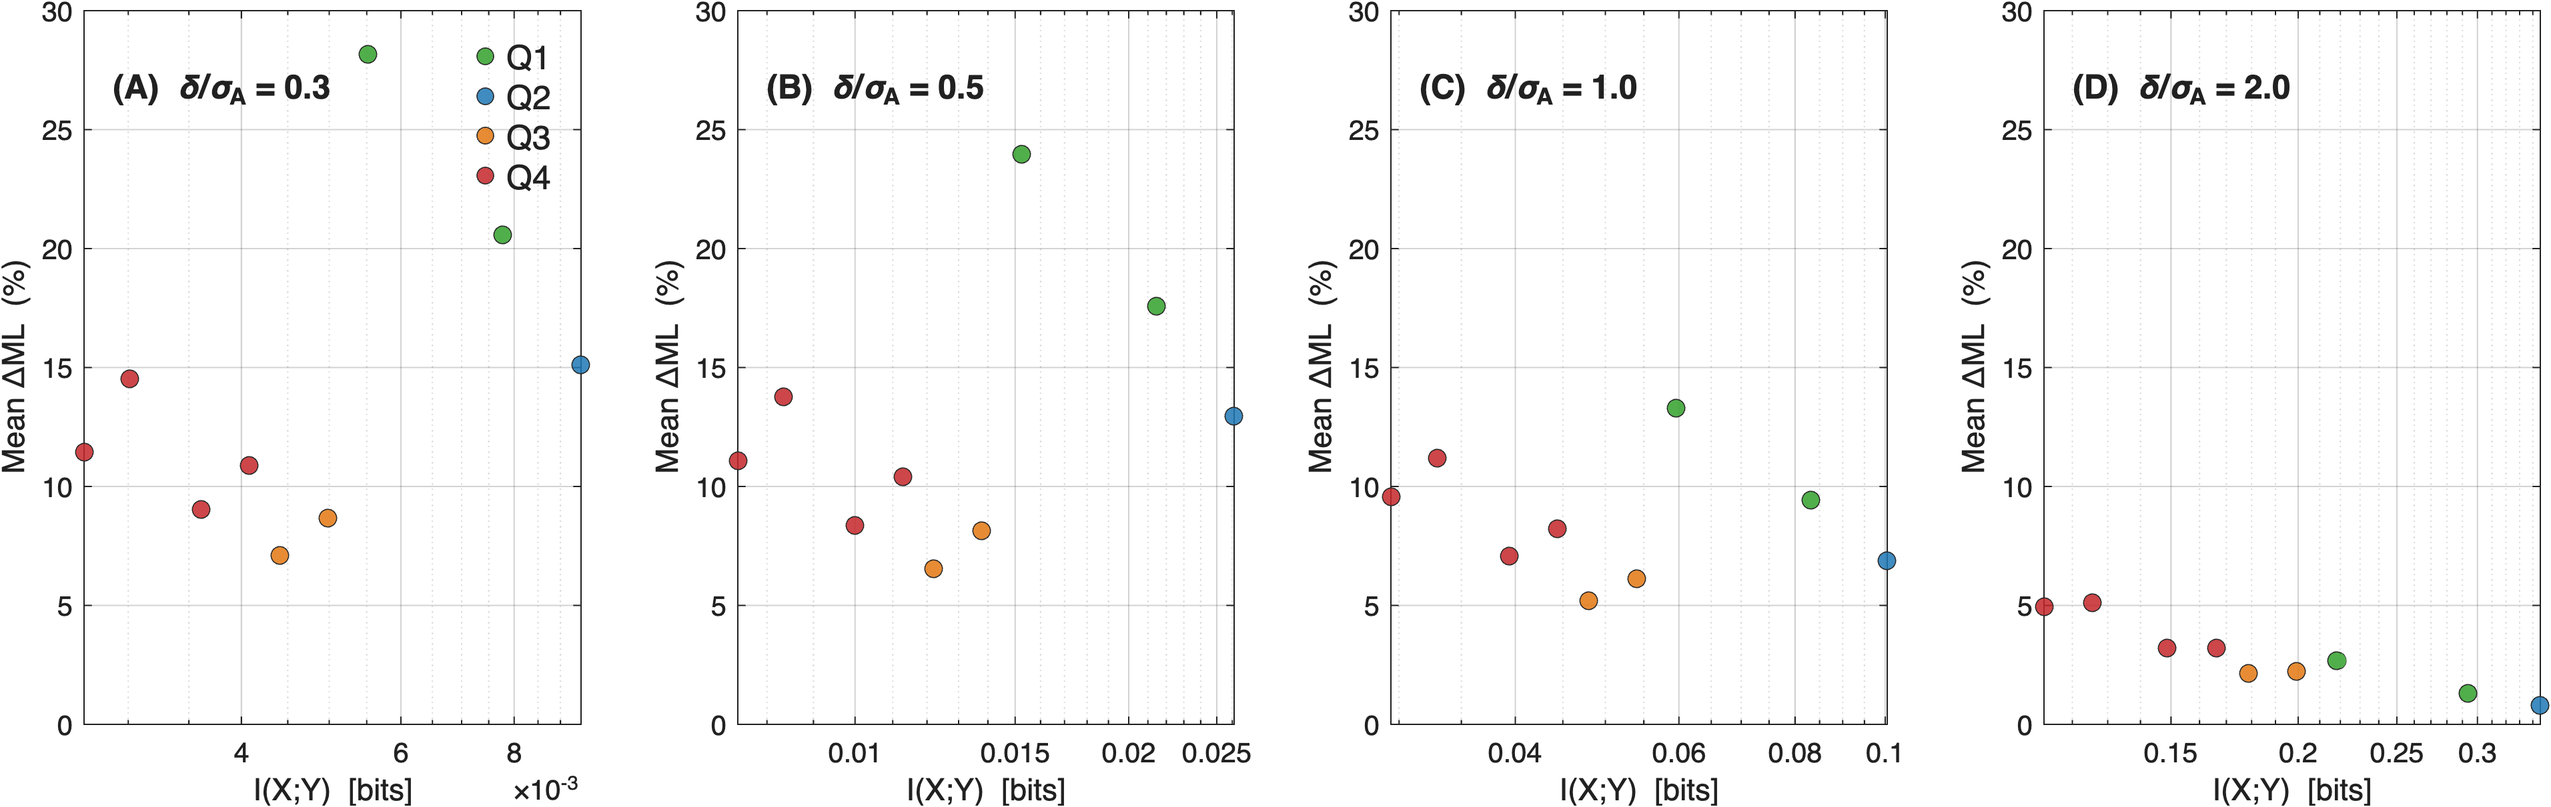
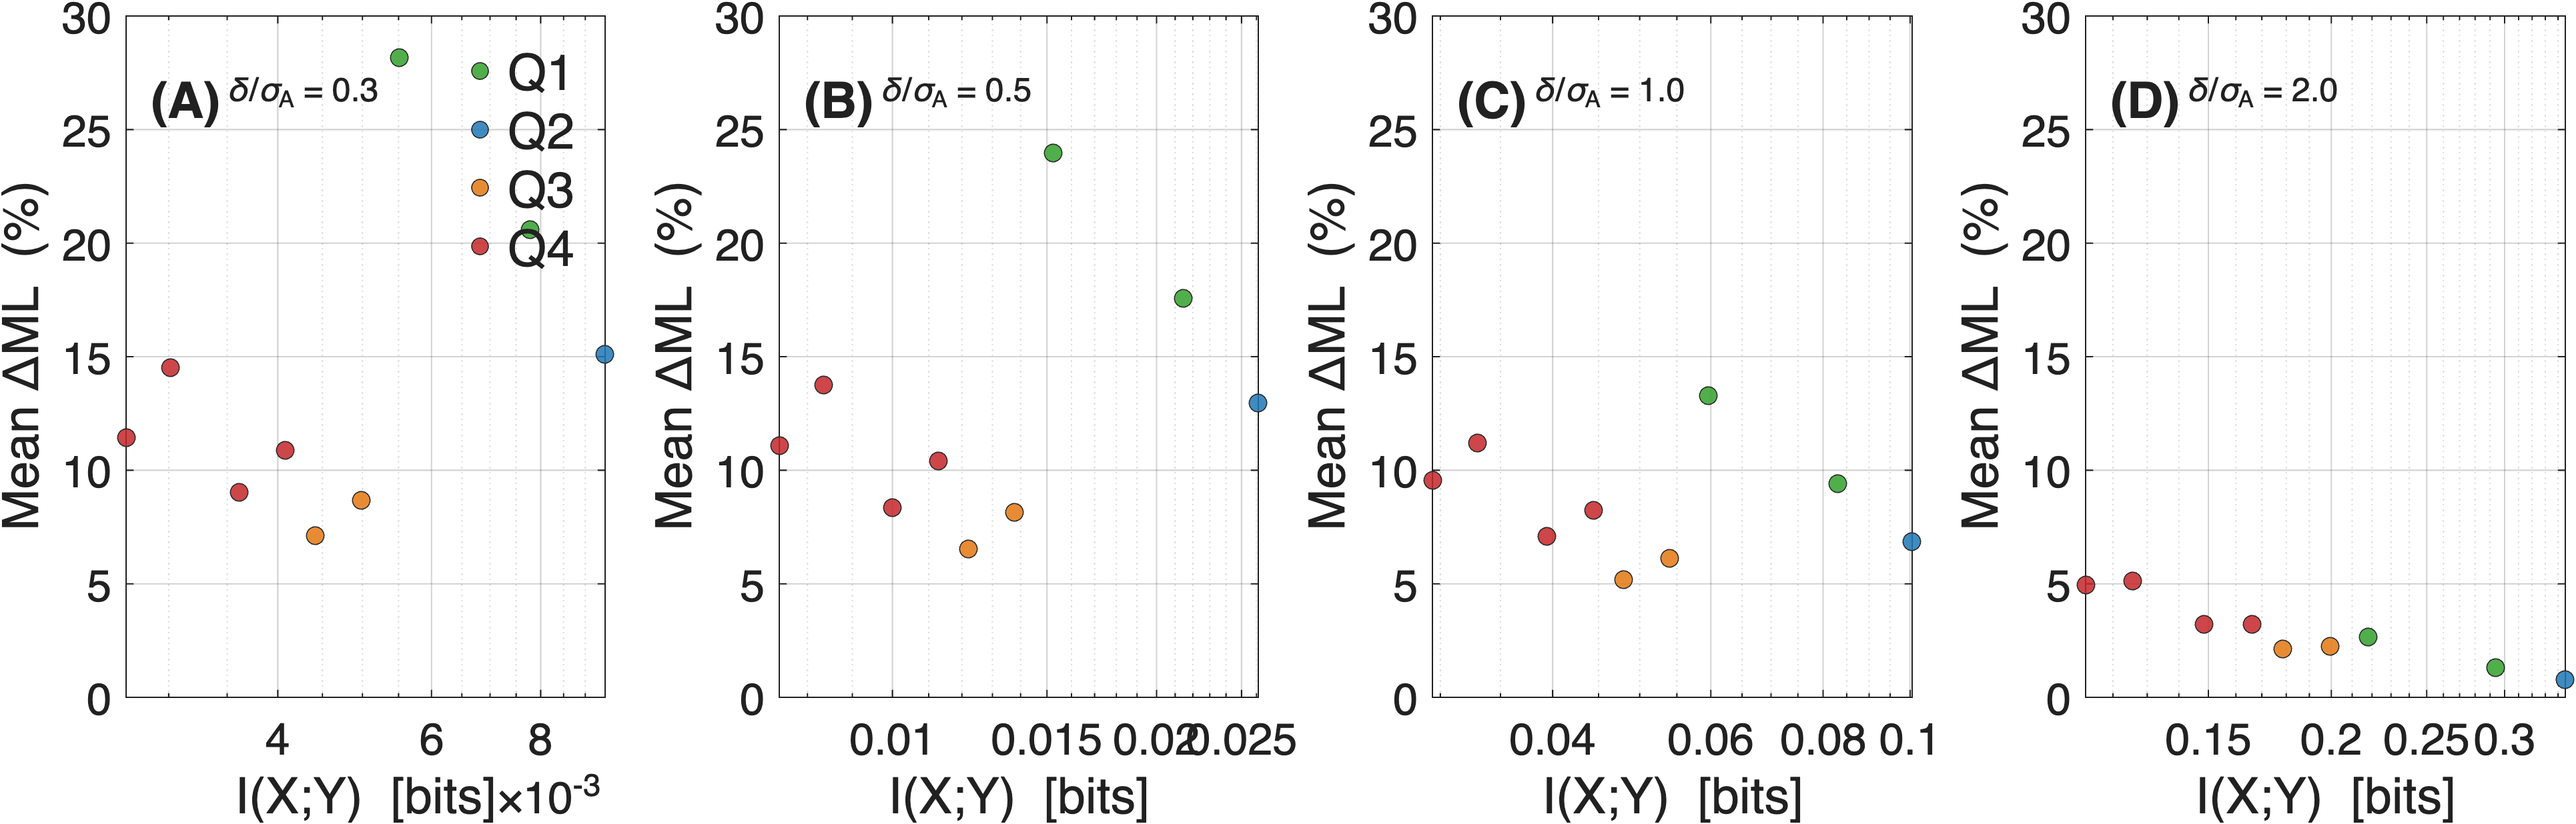
Make SI panel letters match the 18 pt axis labels.
KPI notes stay at 12 pt; regenerate the multi-panel SI figures so Overleaf picks up the larger letters.

diff --git a/scripts/paper_pipeline/lib/pef_figure_style.m b/scripts/paper_pipeline/lib/pef_figure_style.m
@@ -14,8 +14,9 @@ classdef pef_figure_style
 
         function cfg = config()
             % Publication type: no axes titles; captions carry the narrative.
-            % Axis / colourbar labels match the legend (18 pt); tick numbers
-            % 2 pt smaller (16 pt); contour clabels stay 10 pt.
+            % Axis / colourbar labels and panel letters match the legend
+            % (18 pt); tick numbers 2 pt smaller (16 pt); contour clabels
+            % stay 10 pt. KPI names and notes stay on the annotation scale.
             cfg.rho_min = -0.999;
             cfg.rho_max =  0.999;
             cfg.kap_min =  0.001;
@@ -173,7 +174,8 @@ classdef pef_figure_style
         function add_panel_letter(ax, letter, cfg, varargin)
             % Panel identifier inside the axes (never a title, never outside).
             % Default: northwest inset, consistent across all published figures.
-            % Optional Note is drawn on the same line (12 pt).
+            % Optional Note is drawn on the same line at fs_annot (12 pt).
+            % The letter itself uses fs_label so it matches axis titles.
             if nargin < 3 || isempty(cfg), cfg = pef_figure_style.config(); end
             loc = 'northwest';
             note = '';
@@ -191,10 +193,6 @@ classdef pef_figure_style
                     end
                 end
             end
-            txt = char(string(letter));
-            if ~isempty(note)
-                txt = [txt, '  ', char(string(note))];
-            end
             switch lower(char(string(loc)))
                 case 'northeast'
                     xy = [0.95, 0.92]; ha = 'right'; va = 'top';
@@ -205,12 +203,29 @@ classdef pef_figure_style
                 otherwise
                     xy = [0.05, 0.92]; ha = 'left'; va = 'top';
             end
-            text(ax, xy(1), xy(2), txt, 'Units', 'normalized', ...
-                'FontSize', cfg.fs_annot, 'FontWeight', 'bold', ...
+            h = text(ax, xy(1), xy(2), char(string(letter)), ...
+                'Units', 'normalized', ...
+                'FontSize', cfg.fs_label, 'FontWeight', 'bold', ...
                 'HorizontalAlignment', ha, 'VerticalAlignment', va, ...
                 'Interpreter', 'tex', 'HandleVisibility', 'off', ...
                 'Clipping', 'off', 'Margin', 1, ...
                 'BackgroundColor', bg, 'EdgeColor', 'none');
+            if ~isempty(note)
+                ext = h.Extent;
+                gap = 0.012;
+                if strcmp(ha, 'right')
+                    nx = ext(1) - gap;
+                else
+                    nx = ext(1) + ext(3) + gap;
+                end
+                text(ax, nx, xy(2), char(string(note)), ...
+                    'Units', 'normalized', ...
+                    'FontSize', cfg.fs_annot, 'FontWeight', 'normal', ...
+                    'HorizontalAlignment', ha, 'VerticalAlignment', va, ...
+                    'Interpreter', 'tex', 'HandleVisibility', 'off', ...
+                    'Clipping', 'off', 'Margin', 1, ...
+                    'BackgroundColor', bg, 'EdgeColor', 'none');
+            end
         end
 
         function ylim_bars_from_zero(ax, y_hi)
@@ -229,9 +244,14 @@ classdef pef_figure_style
 
         function apply_decimal_ticks(ax, ndp)
             % Fixed decimal places on numeric x/y tick labels.
+            % ndp may be a scalar or [ndp_x, ndp_y]. Log-scaled x is left alone.
             if nargin < 2 || isempty(ndp), ndp = 1; end
-            ax.XTickLabel = pef_figure_style.decimal_labels(ax.XTick, ndp);
-            ax.YTickLabel = pef_figure_style.decimal_labels(ax.YTick, ndp);
+            ndp = ndp(:)';
+            if isscalar(ndp), ndp = [ndp, ndp]; end
+            if ~strcmpi(get(ax, 'XScale'), 'log')
+                ax.XTickLabel = pef_figure_style.decimal_labels(ax.XTick, ndp(1));
+            end
+            ax.YTickLabel = pef_figure_style.decimal_labels(ax.YTick, ndp(2));
         end
 
         function apply_side_legend(ax, cfg, position)
@@ -269,6 +289,15 @@ classdef pef_figure_style
             cb.Label.FontSize = cfg.fs_label;
             cb.Label.FontWeight = 'normal';
             caxis(ax, caxis_range);
+            if max(caxis_range) <= 0.35
+                ticks = 0:0.05:0.30;
+                ndp = 2;
+            else
+                ticks = 0:0.2:max(caxis_range);
+                ndp = 1;
+            end
+            cb.Ticks = ticks;
+            cb.TickLabels = pef_figure_style.decimal_labels(ticks, ndp);
         end
 
         function h_img = draw_eta_surface(ax, cfg, show_contours)

diff --git a/scripts/matlab_figures/regenerate_figure_S1_overlay.m b/scripts/matlab_figures/regenerate_figure_S1_overlay.m
@@ -55,15 +55,16 @@ for i = 1:height(pts)
     scatter(axA, pts.rho(i), pts.tau(i), msz, [0.25, 0.25, 0.25], ...
         'filled', 'Marker', mk, 'MarkerEdgeColor', 'k', 'LineWidth', 0.4);
 end
-text(axA, 0.42, 0.30, 'Q1', 'FontSize', 12, 'FontWeight', 'bold', 'Color', [0.35, 0.35, 0.35]);
-text(axA, 0.42, -0.21, 'Q2', 'FontSize', 12, 'FontWeight', 'bold', 'Color', [0.35, 0.35, 0.35]);
-text(axA, -0.78, -0.21, 'Q3', 'FontSize', 12, 'FontWeight', 'bold', 'Color', [0.35, 0.35, 0.35]);
-text(axA, -0.50, 0.32, 'Q4', 'FontSize', 12, 'FontWeight', 'bold', 'Color', [0.35, 0.35, 0.35]);
+text(axA, 0.42, 0.30, 'Q1', 'FontSize', ST.fs_quad, 'FontWeight', 'bold', 'Color', [0.35, 0.35, 0.35]);
+text(axA, 0.42, -0.21, 'Q2', 'FontSize', ST.fs_quad, 'FontWeight', 'bold', 'Color', [0.35, 0.35, 0.35]);
+text(axA, -0.78, -0.21, 'Q3', 'FontSize', ST.fs_quad, 'FontWeight', 'bold', 'Color', [0.35, 0.35, 0.35]);
+text(axA, -0.50, 0.32, 'Q4', 'FontSize', ST.fs_quad, 'FontWeight', 'bold', 'Color', [0.35, 0.35, 0.35]);
 xlim(axA, [-0.85, 0.65]);
 ylim(axA, [-0.25, 0.42]);
 xlabel(axA, '\rho', 'FontSize', ST.fs_label, 'Interpreter', 'tex');
 ylabel(axA, '\tau = (1/2) log \kappa', 'FontSize', ST.fs_label, 'Interpreter', 'tex');
 pef_figure_style.style_scatter_axes(axA, ST);
+pef_figure_style.apply_decimal_ticks(axA, 1);
 pef_figure_style.add_panel_letter(axA, '(A)', ST);
 text(axA, 0.04, 0.58, {'○  \rho>0 (shared)', '□  \rho=0 (Fisher)', '▽  \rho<0 (competitive)'}, ...
     'Units', 'normalized', 'FontSize', ST.fs_annot, 'Color', [0.25, 0.25, 0.25], ...
@@ -109,6 +110,7 @@ pef_figure_style.style_scatter_axes(axB, ST);
 pef_figure_style.add_panel_letter(axB, '(B)', ST);
 set(axB, 'XScale', 'log');
 ylim(axB, Y_LIM);
+pef_figure_style.apply_decimal_ticks(axB, [1, 0]);
 grid(axB, 'on');
 
 % ---- (C) Master surface: DeltaML vs d_rel, bounded by r = corr(A,X) -----
@@ -155,6 +157,8 @@ cb = colorbar(axC);
 cb.Label.String = 'r = corr(A, X)';
 cb.Label.Interpreter = 'tex';
 cb.Label.FontSize = ST.fs_label;
+cb.FontSize = ST.fs_tick;
+cb.TickLabels = pef_figure_style.decimal_labels(cb.Ticks, 2);
 
 xlabel(axC, 'Relative-feature signal  d_{rel} = \delta / \surd Var(X)', ...
     'FontSize', ST.fs_label, 'Interpreter', 'tex');
@@ -162,6 +166,7 @@ ylabel(axC, 'Mean \DeltaML  (%)', 'FontSize', ST.fs_label, 'Interpreter', 'tex')
 ylim(axC, Y_LIM);
 pef_figure_style.style_scatter_axes(axC, ST);
 pef_figure_style.add_panel_letter(axC, '(C)', ST);
+pef_figure_style.apply_decimal_ticks(axC, [1, 0]);
 grid(axC, 'on');
 legend(axC, [h_ceil, h_edge], ...
     {'ceiling: r\rightarrow0 (majority baseline)', sprintf('grid edge: r = %.2f', r_min)}, ...

diff --git a/scripts/paper_pipeline/run_pef_finalize_diagnostics.m b/scripts/paper_pipeline/run_pef_finalize_diagnostics.m
@@ -265,11 +265,12 @@ function plot_Ipred_vs_dML(tbl, valid, fpath)
     ax = axes('Parent', fig);
     pef_figure_style.scatter_by_quadrant(ax, tbl.I_pred(valid), ...
         tbl.acc_improvement(valid), tbl.quadrant(valid), ST, 48);
+    pef_figure_style.style_scatter_axes(ax, ST);
     xlabel(ax, 'I_{pred}(X;Y)  [bits]', 'FontSize', ST.fs_label);
     ylabel(ax, '\DeltaML improvement  (%, relative minus absolute)', ...
         'FontSize', ST.fs_label);
+    pef_figure_style.apply_decimal_ticks(ax, [3, 1]);
     legend(ax, 'Location', 'northeast', 'Box', 'off', 'FontSize', ST.fs_panel);
-    pef_figure_style.style_scatter_axes(ax, ST);
 
     % Annotate high-|DeltaML| outliers among retained action KPIs.
     sub = tbl(valid, :);
@@ -396,10 +397,10 @@ function plot_iso_eta_I_tension(ideal_tbl, deltaRatio, fpath)
     pef_figure_style.draw_quadrant_labels(ax, ST);
     [Ce, he] = contour(ax, R, K, eta_s, [0.5, 0.75, 1, 1.25, 1.5, 2], ...
         'Color', [0.15, 0.15, 0.15], 'LineWidth', 1.1);
-    clabel(Ce, he, 'FontSize', ST.fs_panel, 'Color', [0.15, 0.15, 0.15]);
+    clabel(Ce, he, 'FontSize', ST.fs_contour, 'Color', [0.15, 0.15, 0.15]);
     [Ci, hi] = contour(ax, R, K, I_med, [0.02, 0.05, 0.1, 0.15, 0.20], ...
         'w--', 'LineWidth', 0.9);
-    clabel(Ci, hi, 'FontSize', ST.fs_panel, 'Color', 'w');
+    clabel(Ci, hi, 'FontSize', ST.fs_contour, 'Color', 'w');
     % Cut guides
     xline(ax, 0, 'Color', [0.95, 0.95, 0.2], 'LineWidth', 1.4, 'LineStyle', '-');
     yline(ax, 1, 'Color', [0.95, 0.95, 0.2], 'LineWidth', 1.4, 'LineStyle', '-');
@@ -438,6 +439,10 @@ function plot_iso_eta_I_tension(ideal_tbl, deltaRatio, fpath)
     pef_figure_style.add_panel_letter(axb, '(B)', ST);
     grid(axb, 'on');
     axb.FontSize = ST.fs_tick;
+    axb.XLabel.FontSize = ST.fs_label;
+    axb.YAxis(1).Label.FontSize = ST.fs_label;
+    axb.YAxis(2).Label.FontSize = ST.fs_label;
+    axb.XTickLabel = pef_figure_style.decimal_labels(axb.XTick, 1);
 
     axc = nexttile(tl);
     hold(axc, 'on');
@@ -454,6 +459,10 @@ function plot_iso_eta_I_tension(ideal_tbl, deltaRatio, fpath)
     pef_figure_style.add_panel_letter(axc, '(C)', ST);
     grid(axc, 'on');
     axc.FontSize = ST.fs_tick;
+    axc.XLabel.FontSize = ST.fs_label;
+    axc.YAxis(1).Label.FontSize = ST.fs_label;
+    axc.YAxis(2).Label.FontSize = ST.fs_label;
+    axc.XTickLabel = pef_figure_style.decimal_labels(axc.XTick, 1);
 
     pef_figure_style.export_figure(fig, fpath);
     close(fig);

diff --git a/scripts/matlab_figures/generate_figure_S4_labelled_kpis.m b/scripts/matlab_figures/generate_figure_S4_labelled_kpis.m
@@ -107,6 +107,7 @@ function plot_quadrant_share(ax, kpi_rugby, kpi_football, H, ST)
         'FontSize', ST.fs_tick, 'Box', 'on', 'TickLabelInterpreter', 'none', ...
         'XTickLabelRotation', 0, 'YGrid', 'on', 'XGrid', 'off');
     ylabel(ax, 'Share of KPIs  (%)', 'FontSize', ST.fs_label);
+    ax.YTickLabel = pef_figure_style.decimal_labels(ax.YTick, 0);
     legend(ax, b, qkeys, 'Location', 'north', 'Box', 'off', ...
         'FontSize', ST.fs_panel);
 end

diff --git a/scripts/matlab_figures/generate_figure_S3_info_sensitivity.m b/scripts/matlab_figures/generate_figure_S3_info_sensitivity.m
@@ -58,7 +58,9 @@ cb = colorbar(ax_handles(3));
 cb.Label.String = 'I(X;Y)  [bits]';
 cb.Label.FontSize = ST.fs_label;
 cb.FontSize = ST.fs_tick;
-cb.Ticks = 0:0.2:1;
+I_ticks = 0:0.2:1;
+cb.Ticks = I_ticks;
+cb.TickLabels = pef_figure_style.decimal_labels(I_ticks, 1);
 
 out_png = fullfile(fig_dir, 'Figure_S3_info_sensitivity.png');
 pef_figure_style.export_figure(fig, out_png);

diff --git a/scripts/paper_pipeline/outputs/finalize_correlations.tex b/scripts/paper_pipeline/outputs/finalize_correlations.tex
@@ -1,6 +1,6 @@
 % finalize_correlations.tex — auto-generated by run_pef_finalize_diagnostics.m
 % Do NOT edit by hand; re-run finalize diagnostics to update.
-% Generated: 2026-09-17 08:08:21
+% Generated: 2026-09-19 13:40:14
 
 \providecommand{\PEFcorrIpredML}{???}
 \renewcommand{\PEFcorrIpredML}{-0.046}

diff --git a/documentation/PAPER_FORMATTING.md b/documentation/PAPER_FORMATTING.md
@@ -1,0 +1,126 @@
+# Paper formatting — good practices
+
+Author-facing house style for the PEF empirical manuscript. The companion mathematics paper should look like a pair.
+
+**What this file is.** Why figures and captions are laid out as they are, and the checks to run before export.
+
+**What this file is not.** Agent implementation detail. Type sizes, MATLAB helpers, and regeneration commands live in `.cursor/rules/figures.mdc` and `scripts/paper_pipeline/lib/pef_figure_style.m`. Prose and LaTeX conventions live in `.cursor/rules/latex-paper.mdc` and `.cursor/rules/writing-clarity.mdc`. SI section order lives in `documentation/SUPPLEMENTARY_STRUCTURE.md`.
+
+## 1. What belongs on a main-text figure
+
+Main Figures 1--3 argue one claim each. They are not inventory dumps.
+
+| Figure | Job | On the plot | Not on the plot |
+|--------|-----|-------------|-----------------|
+| 1 | $\eta$ landscape and confirmatory anchors | Four exemplars with season drift; supporting-domain mean triangles | Full rugby/football KPI cloud |
+| 2 | $I(X;Y)$ surface at $\delta/\sigma_A=1$ | Same exemplars and triangles as Figure 1 | Full KPI cloud; extra $\delta/\sigma_A$ slices |
+| 3 | Confirmatory $\eta$ vs $\Delta\mathrm{ML}$ | Four exemplars at matched signal, plus the rucks-won foil | Full inventory scatter |
+
+The unmarked blue (rugby) and yellow (football) KPI cloud belongs in **Supplementary Figure S4**. The $I_{\mathrm{pred}}$ vs $\Delta\mathrm{ML}$ inventory belongs in **S5**. If a reader needs every KPI, send them to the SI; do not put the cloud back on Figure 1 to “match” an older draft.
+
+Captions and Methods must agree with that split. Do not write “unmarked markers are the 86 action KPIs” on Figure 1 if the script no longer draws them.
+
+## 2. Type hierarchy
+
+Printed figures shrink. Axis titles that look fine on a 1400-pixel MATLAB window become faint in a two-column PDF.
+
+Use one hierarchy, set in `pef_figure_style.config()` (do not hard-code point sizes in published figure scripts):
+
+| Role | Relative size | Current setting |
+|------|---------------|-----------------|
+| Axis titles, colourbar titles, legends | Same size as each other | 18 pt |
+| Numeric tick labels | Two points smaller than titles | 16 pt |
+| Quadrant tags Q1--Q4 | Slightly below titles | 16 pt |
+| Contour *clabels* | Small; they sit on the surface | 10 pt |
+| Panel letters `(A)`, `(B)`, … | Same as axis titles | 18 pt bold |
+| KPI notes | Annotation scale | 12 pt |
+
+**Why titles match the legend.** The legend is the first thing a reader uses to decode markers. Axis titles (“Pairwise correlation $\rho$”, “Variance ratio $\kappa$”) should be equally readable.
+
+**Why ticks are smaller, not tiny.** Ticks must stay secondary to titles, but 10 pt on a landscape plot disappears in print.
+
+**Why contour labels stay small.** They collide with Q tags and exemplars if they share the tick size.
+
+## 3. Numeric tick labels
+
+Every numeric label on one axis uses the **same number of decimal places**.
+
+- Landscape $x$: `-0.8, -0.6, …, 0.0, …, 0.8` (one decimal).
+- Landscape $y$: `0.5, 1.0, 1.5, 2.0, 2.5, 3.0` (one decimal). Do not mix `1` with `1.5`.
+- Figure 3 $x$: `0.0, 1.0, 2.0, 3.0, 5.2, 5.6` (one decimal, including the broken-axis values).
+- Figure 3 $y$: `-3.0` through `7.0` (one decimal).
+- Colourbar ticks follow the same rule on that scale (Figure 1: one decimal, so `10.0` not `1e+01`; Figure 2: two decimals because the step is `0.05`).
+
+Helper: `pef_figure_style.apply_decimal_ticks` / `decimal_labels`.
+
+## 4. MATLAB pitfalls that undo the style
+
+**Axes `FontSize` resets labels.** `set(ax, 'FontSize', fs_tick)` also overwrites `xlabel` and `ylabel`. Set tick size first, then apply title size, or call `style_landscape_axes` / `style_scatter_axes` (they restore label size).
+
+**Colourbar titles need a free slot.** A long label such as $I(X;Y)$ (bits) will sit on the side legend if it is placed at mid-bar. Put it at the **top** of the colourbar gap (as on Figures 1--2). A single-character $\eta$ can live there too.
+
+**Contour labels are not tick labels.** Keep `fs_contour` separate from `fs_tick`.
+
+**Export at 300 dpi** via `pef_figure_style.export_figure`. White figure background. No on-figure `title` or `sgtitle`.
+
+## 5. Captions, not titles
+
+The PNG has no title. The LaTeX caption carries the narrative.
+
+- Captions live in `sections/tables_and_figures.tex` (main) and `sections/supplementary.tex` (SI).
+- Multi-panel captions use (A), (B), (C) to match panel letters inside the axes.
+- Do not repeat a figure title in the first sentence and then restate it.
+- British English. Cite other figures with `\cref{…}`, not hard-coded “Figure 4”.
+- After a plotting change, update the caption in the same edit. Stale captions (“unmarked markers are…”) are worse than a missing sentence.
+
+## 6. Panel letters, legends, and collisions
+
+- Multi-panel: `(A)`, `(B)`, `(C)` **inside** the axes, default northwest, no white patch, 18 pt bold (same as axis labels).
+- Single-panel figures do not need a letter.
+- Legends: box off, in empty space, not on curves or markers.
+- If a KPI name has no free slot, omit the name and keep the marker.
+- Dense maps (S4): colour and position carry identity; do not force every name onto the surface.
+
+## 7. Colour and axes
+
+- Quadrants: Q1 green, Q2 blue, Q3 orange, Q4 red (`quadrant_color`).
+- Landscape limits: $\rho\in[-0.999,0.999]$, $\kappa\in[0.001,3]$.
+- Bar charts of non-negative summaries start at zero. Do not leave an empty negative floor.
+
+## 8. LaTeX and prose (short list)
+
+- British English: recognised, behaviour, rigour, optimisation.
+- Greek in math mode (`$\eta$`, `$\kappa$`, `$\rho$`), not Unicode.
+- Generated numbers come from `scripts/paper_pipeline/outputs/numbers.tex`. Do not hand-edit those macros.
+- Macro names are letter-only after `\`. Digits inside a name break TeX parsing.
+- No em-dash asides (`---`). Prefer a new sentence, a comma, or a colon. En-dashes in ranges (`23/24--24/25`) are fine.
+- One idea per sentence; split anything that needs a second pass.
+
+Full rules: `.cursor/rules/latex-paper.mdc`, `.cursor/rules/writing-clarity.mdc`.
+
+## 9. Pre-export checklist
+
+1. The figure’s job matches the table in §1 (no inventory cloud on Figures 1--3).
+2. No title on the PNG.
+3. Axis titles and legend are the same size; ticks are two points smaller; decimals are uniform on each axis.
+4. Colourbar title is clear of the legend and of tick numerals.
+5. Q tags, contour labels, and exemplars do not sit on each other.
+6. Caption describes what is actually plotted and points the inventory to S4/S5.
+7. Regeneration used the scripts below, not a one-off MATLAB session with leftover sizes.
+
+## 10. Regeneration
+
+| Figure | Script |
+|--------|--------|
+| 1 | `scripts/paper_pipeline/regen_fig1.m` |
+| 2 | `scripts/paper_pipeline/regen_fig2.m` |
+| 3 | `scripts/matlab_figures/regenerate_figure_3_from_outputs.m` |
+| Printed S1--S5 | `scripts/matlab_figures/generate_all_si_figures.m` |
+
+After caption or Methods edits, refresh review copies with:
+
+```bash
+python3 "Paper Review Process/export_sections_to_md.py"
+```
+
+LaTeX in `sections/` remains authoritative.

diff --git a/README.md b/README.md
@@ -46,7 +46,7 @@ pef-empirical/
 
 Captions for printed S1--S5 are in `sections/supplementary.tex`. Structure: `documentation/SUPPLEMENTARY_STRUCTURE.md` (three SI blocks: theory, probit, empirical; figures numbered in order of appearance; SI §1 holds the mathematical derivations). Disk file names retain generator tags and need not match printed S-numbers.
 
-**Shared figure style:** all main and SI landscape/scatter plots use `scripts/paper_pipeline/lib/pef_figure_style.m` (axis limits, colormaps, quadrant colours, 300 dpi export). Regenerate printed S1--S5 via `scripts/matlab_figures/generate_all_si_figures.m` (requires pipeline outputs for the S2 overlay, iso-η companion, and *I*_pred panel).
+**Shared figure style:** all main and SI landscape/scatter plots use `scripts/paper_pipeline/lib/pef_figure_style.m` (axis limits, colormaps, quadrant colours, 300 dpi export). Author-facing checklist: [`documentation/PAPER_FORMATTING.md`](documentation/PAPER_FORMATTING.md). Agent sizes and helpers: `.cursor/rules/figures.mdc`. Regenerate printed S1--S5 via `scripts/matlab_figures/generate_all_si_figures.m` (requires pipeline outputs for the S2 overlay, iso-η companion, and *I*_pred panel).
 
 ## Requirements
 
